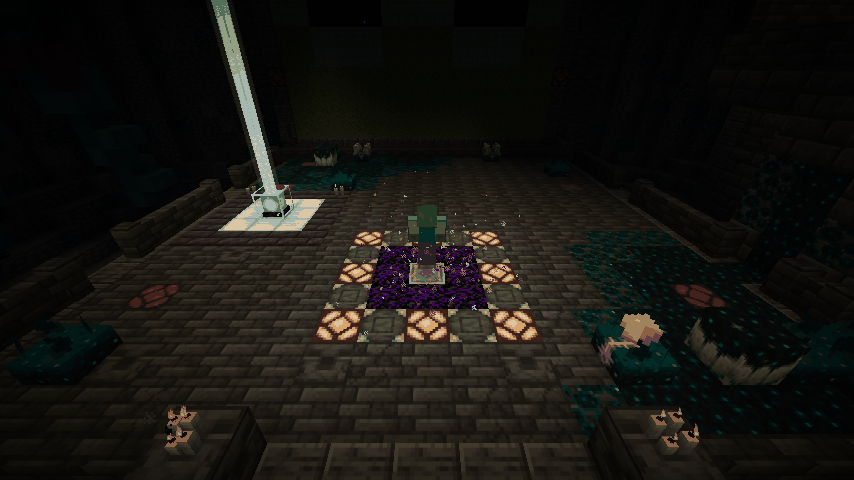
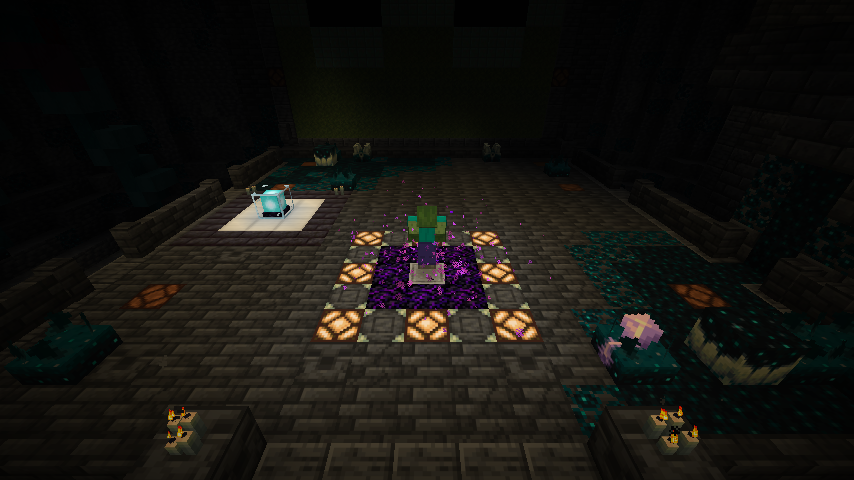
Fabricator client test: a shot of the departure burst; previews (C1)

diff --git a/mods/bubbas_reworked_mobs/src/gametest/java/io/github/bubba8587/bubbas_reworked_mobs/test/FactoriesClientGameTest.java b/mods/bubbas_reworked_mobs/src/gametest/java/io/github/bubba8587/bubbas_reworked_mobs/test/FactoriesClientGameTest.java
@@ -115,6 +115,9 @@ public class FactoriesClientGameTest implements FabricClientGameTest {
 		}
 		context.waitTicks(12);
 		hudlessShot(context, server, "factory-lift");
+		// The moment it fires: the departure burst over the pad (it fires 20 ticks into the lift).
+		context.waitTicks(9);
+		hudlessShot(context, server, "factory-burst");
 		// Find the mob that went up, while it lies limp in its particles.
 		net.minecraft.world.phys.Vec3 arrived = null;
 		for (int i = 0; i < 1200 && arrived == null; i++) {

diff --git a/specs/mob-factory.md b/specs/mob-factory.md
@@ -296,6 +296,7 @@ The Warden and the debuffs carry on.
 - **Client part `factories`:** the look shots plus:
   - `factory-countdown`: a deactivated zombie on the pad mid-count;
   - `factory-lift`: all lamps lit, lifted;
+  - `factory-burst`: the moment it fires, the departure burst over the pad (preview `docs/previews/factories/fabricator-burst.png`);
   - `factory-arrival`: the zombie limp on the surface at night in its particles;
   - `factory-worldgen` and `factory-city-door(-nightvision)`: the natural Fabricator nearest spawn and its doorway, with the "real ancient city there: true" check printed.
 - `MobFactoryGameTest.officeGemsCarryTheirEffect` (milestone): with Infused Gems, office-chest gems carry their effect component (bug 2026-11-16: the gem entries used the pre-26.x `functions` key, which 26.3 ignores, so they came out blank).
